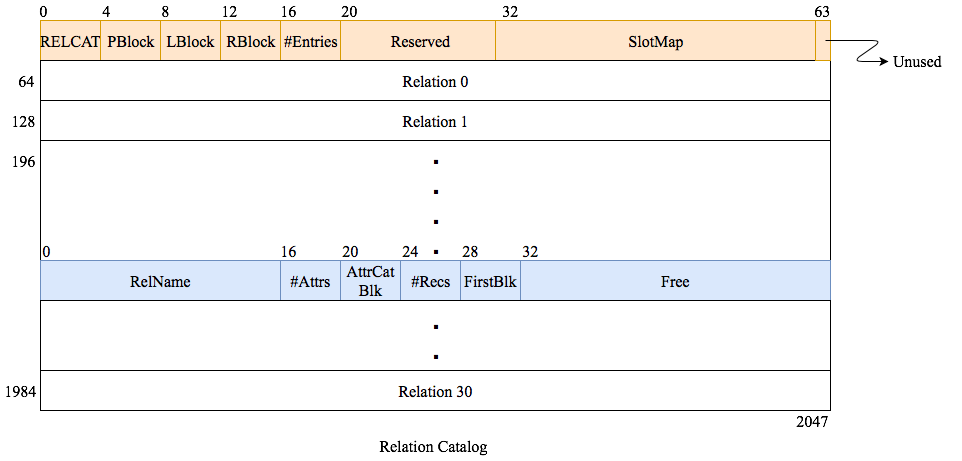
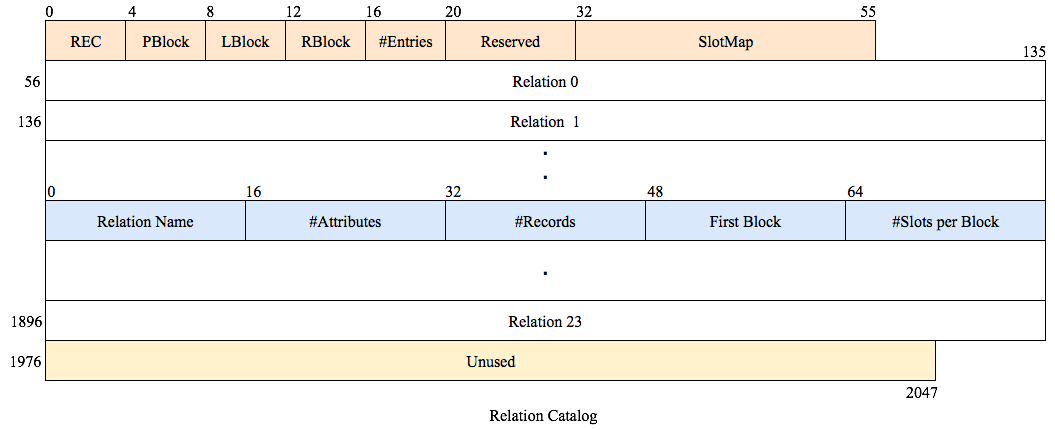
new diagrams

diff --git a/storage-model.html b/storage-model.html
@@ -43,67 +43,60 @@
             
             <div id="disk_model" class="detail">
                 <h2>Disk Model</h2>
-                <p>Nitcbase assumes that disk is a sequence of blocks and a block is a sequence of bytes. The disk consists of 8192 blocks and a block is of 2048 bytes. Hence there is a total of 16MB of storage. Disk blocks are indexed from 0 to 8191. </p>
+                <p> Nitcbase assumes that disk is a sequence of blocks and a block is a sequence of bytes. The disk consists of 8192 blocks and a block is of 2048 bytes. Hence there is a total of 16MB of storage. Disk blocks are indexed from 0 to 8191. </p>
                 <p> Block# 0-3 are reserved for storing Block allocation map where as Block# 4, 5 is for storing first Block of Relation Catalog and Attribute Catalog respectively. Block allocation map tells us whether a particular block is free or occupied and requires one byte per each block. Hence a total of 8192/2048=4 blocks are required for Block allocation map. The following figure summarizes the disk structure. </p>
                 <center><img src="img/disk_model.png"></center>
                 
-                <p> Based on type of information stored in a block, a block can be of 5 types- 1. Record block, 2. Index block, 3.Database Catalog block, 4.Relation Catalog block, 5.Attribute catalog block.</p>
+                <p> Based on type of information stored in a block, a block can be of 5 types- 1. Record block, 2. Index block . </p>
             </div>
             
             <div id="record_blk" class="detail">
                 <h2>Record block structure</h2>
-                <p> A database in Nitcbase is a collection of relations, and each relation is a collection of records.  The DBMS must store relations in the disk and the strategy is to store each relation in a set of blocks in the disk, organized as a linked list. Each block in such a linked list will be called a record block and is designed to store a fixed number of records.  The block will also contains some meta data like indices of the left and right blocks in the linked list.  Nitcbase fixes the size of a record as 256 bytes. </p>
-                <p>A record block stores the actual data records. The record block is divided into slots of size 256 Bytes each. Each slot stores a single record. Each block can have a maximum of 7 slots/records. In addition to data records, each block also stores meta data in preamble/header which occupies the first 256 Bytes of the record block.</p>
+                <p> Nitcbase is a collection of relations, and each relation is a collection of records.  The DBMS must store relations in the disk and the strategy is to store each relation in a set of blocks in the disk, organized as a linked list. Each block in such a linked list will be called a record block. The block will also contains some meta data like indices of the left and right blocks in the linked list. </p>
+                <p> Records in a relation are composed of fields known as attributes each of which contains one item of information. Nitcbase fixes the size of attribute as 16 bytes.
+                    But the records in a relation are of variable size, the size can vary from 16 bytes (record with single attribute) to the size that the record can fit in a block. </p>
+                <p> A record block stores the actual data records. In addition to data records, each block also stores meta data in preamble/header. </p>
+                
+               
                 <center><img src="img/record_block.png"></center>
-                <p>First four bytes(0-3) of header are used to identify the type of block(REC/IND/DBCAT/RELCAT/ATTRCAT) where REC represents a record block. Next four bytes(4-7) are used for storing parent block pointer which has no significance for a record block and can be set to -1. Byte# 8-11 and 12-15 are used for storing Left and right block numbers respectively. Next four bytes are used for storing number of records currently stored in the block whose value can range from 0 to 7. Bytes 20-31 are reserved for future use.</p>
+                <p> First four bytes(0-3) of header are used to identify the type of block(REC/IND/DBCAT/RELCAT/ATTRCAT) where REC represents a record block. Next four bytes(4-7) are used for storing parent block pointer which has no significance for a record block and can be set to -1. Byte# 8-11 and 12-15 are used for storing Left and right block numbers respectively. Next four bytes are used for storing number of records currently stored in the block whose value can range from 0 to 7. Bytes 20-31 are reserved for future use.</p>
+                 <p>  The record block is divided into slots of variable record size . Each slot stores a single record. Each block can have a maximum of 7 slots/records.
                 <p> Slotmap is used for knowing whether a slot is occupied or free. It is of 7 bytes, one for each slot. If a slot is free, its corresponding entry in slotmap will be 0 else it will be 1. Slotmap occupies 32-38 bytes of the header. Rest of the bytes in the header i.e., 39-255 are unallocated.</p>
-                <p>A Record can have a maximum of 16 attributes and an attribute can have a maximum of 16 Bytes. Each attribute is alloted a fixed size of 16 bytes and hence each record is alloted a fixed size of 256 bytes in disk.</p>
                 
             </div>
             
             <div id="index_blk" class="detail">
                 <h2>Index block structure</h2>
-                <p>Nitcbase uses the B-Tree data structure for indexing records in a relation.  The DBMS maintains at least one index per relation (and possibly more on requirement).  Corresponding to each index of a relation, the DBMS mantains a B-Tree to store the indices.  Each node of a B-Tree is stored into a block in the disk.  A disk block that stores a node of a B-Tree is called an index block.   Each index block in Nitcbase is designed to store a maximum of 55 indices.  An index is a 3-tuple (attribute value, block number, slot number).  Each index in a B-Tree node also has an associated pair of left and right child block pointers.  Hence, in addition to the indices, each index block is required to store a total of 56 child pointers. (Only 56 Child pointers are required because the right child of one index is the same as the left child of the next index).</p>
+                <p> Nitcbase uses the B-Tree data structure for indexing records in a relation.  The DBMS maintains at least one index per relation (and possibly more on requirement).  Corresponding to each index of a relation, the DBMS mantains a B-Tree to store the indices.  Each node of a B-Tree is stored into a block in the disk.  A disk block that stores a node of a B-Tree is called an index block.   Each index block in Nitcbase is designed to store a maximum of 55 indices.  An index is a 3-tuple (attribute value, block number, slot number).  Each index in a B-Tree node also has an associated pair of left and right child block pointers.  Hence, in addition to the indices, each index block is required to store a total of 56 child pointers. (Only 56 Child pointers are required because the right child of one index is the same as the left child of the next index).</p>
                 <center><img src="img/index_block.png"></center>
-                <p>An index block is divided into three parts.  The first 32 bytes contain a header, the next 1760 bytes store the indices, the following 224 bytes store the child pointers and the last 32 bytes are unused.  The header contains meta data similar to that of a record block. The first four bytes of the header stores the value IND.  PBlock is the Block# of parent block in the B-Tree. LBlock and RBlock have no significance for an index block. #Entries field stores the actual number of indices stored in the block. The remaining space in the header are left unused.</p>
+                <p> An index block is divided into three parts.  The first 32 bytes contain a header, the next 1760 bytes store the indices, the following 224 bytes store the child pointers and the last 32 bytes are unused.  The header contains meta data similar to that of a record block. The first four bytes of the header stores the value IND.  PBlock is the Block# of parent block in the B-Tree. LBlock and RBlock have no significance for an index block. #Entries field stores the actual number of indices stored in the block. The remaining space in the header are left unused.</p>
                 
-                <p>Each entry in the index block is a 3-tuple (attribute value, block number, slot number) corresponding to the particular record. Block# and slot# occupy 4 bytes each and any attribute occupies 16 bytes.  Thus each index requires 24 bytes.  Eight bytes of unused space is maintained for future use.  Thus a total of 32 bytes are allocated for a single index entry.  Since an index block can store upto 55 indices, the total space required for storing indices is 55*32=1760.  Each child pointer requires 4 bytes of storage and  the total space for storing 56 child pointers works out to 56*4 = 224.  The remaining space in the block (32 bytes) is left unused.</p>
+                <p> Each entry in the index block is a 3-tuple (attribute value, block number, slot number) corresponding to the particular record. Block# and slot# occupy 4 bytes each and any attribute occupies 16 bytes.  Thus each index requires 24 bytes.  Eight bytes of unused space is maintained for future use.  Thus a total of 32 bytes are allocated for a single index entry.  Since an index block can store upto 55 indices, the total space required for storing indices is 55*32=1760.  Each child pointer requires 4 bytes of storage and  the total space for storing 56 child pointers works out to 56*4 = 224.  The remaining space in the block (32 bytes) is left unused.</p>
                 <!--p> Note:  An index block has enough space to actually store 38 indices, but the number was limited to 37 because B-Tree algorithms are easier to implement when the maximum number of indices in a node is odd. </p-->  
                 
                 <p></p>
                
             </div>
             
-            <!-- priyatam -->
             
             <div class="pagetitle"><h1>Catalog structures</h1></div>
             
             <div class="detail" id="intro">
-                <p>A relational database has a number of catalogs for storing the meta data information about databases, relations, attributes, indexes etc. In addition to storing these catalogs in disk, a DBMS also caches some of them in memory for quick access. Such cache is called Catalog cache. Nitcbase uses three types of catalogs for storing the meta data.  </p>
+                <p> A relational database has two catalogs for storing the meta data information about relations, attributes, indexes etc. In addition to storing these catalogs in disk, a DBMS also caches some of them in memory for quick access. Such cache is called Catalog cache. Nitcbase uses two types of catalogs for storing the meta data. </p>
                 <ol>
-                    <li>Database Catalog</li>
                     <li>Relation Catalog</li>
                     <li>Attribute Catalog</li>
-                </ol> 
-                <p>In an RDBMS, a relation refers to collection of records where each record is an n-tuple of attribute values. An attribute is a column or field in a relation. A database is a collection of relations.</p>
+                </ol>
+                <p> In an RDBMS, a relation refers to collection of records where each record is an n-tuple of attribute values. An attribute is a column or field in a relation. A database is a collection of relations. </p>
+                <p> Nitcbase organizes these catalogs as relations. The block structures used for the catalogs are record block structures since the catalogs are implemented as relations in Nitcbase.
+                </p>
                 
             </div>
-            
-            <div class="detail" id="dbcat">
-                <h2>Database Catalog</h2>
-                <p>Nitcbase stores database catalog in Block# 4 of the disk. Every database has an entry corresponding to itself in database cataog. Since there are 62 entries in Database Catalog block, a maximum of 62 databases are permitted in total. Each entry in database catalog is of size 32 bytes. Database catalog has three attributes- DBName, RelCat_Index and #Relations. In each entry of database catalog, DBName(0-15 bytes) stores the name of the database, RelCat_Index(16-19 bytes) stores the  Block# of relation catalog for the database and #Realtions(20-23 bytes) specify the current number of relations present in the database, next 8 bytes(24-31) are left unused. In addition to Database Catalog information, this block also stores meta data in preamble/header which occupies the first 96 Bytes of the Database Catalog block. The structure of which can be inferred from the figure. </p>
-                
-                <p>The first four bytes of the header stores the value DBCAT which represents, the block is currently storing Database Catalog. PBlock, LBlock and RBlock have no significance for a Database Catalog block. #Entries field stores the actual number of Database Catalog entries stored in the block(which represents number of databases currently present in the system).Next 8 bytes(byte# 24-31) are reserved for future use, Slotmap occupies next 62 bytes(byte# 32-93)(can be seen in figure), where each byte corresponds to one entry in the database catalog. The remaining 2bytes of header(byte#- 94-95) are left unused.
 
- </p>
- 		
-                <center><img src="img/db_cat.png"></center>
-               
-            </div>
             
             <div class="detail" id="relcat">
                 <h2>Relation Catalog</h2>
-                <p>Relation Catalog stores meta information regarding relations in a database. Each database has a relation catalog. Each entry in Relation Catalog is of size 64 bytes and has the fallowing attributes: RelName, #Attributes, AttrCat_Index, #Records and RecBlk_Index.In each entry, RelName(byte# 0-15) stores name of the relation, #Attributes(byte# 16-19) stores number of attributes of the relation, AttrCat_Index(byte# 20-23) stores the block number of Attribute Catalog of the relation, #Records(byte# 24-27) stores the number of records currently stored in the relation and FirstBlkInd (byte# 24-27) stores the block number of the first record blocks of the relation. Since record blocks are arranged as linked list, FirstBlkInd essentially stores head of the linked list, next 32 bytes of each entry(byte# 32-63) are kept free. Nitcbase allocates one block for a relation catalog, which contains 30 entries, Hence a database can have a maximum of 30 relations.</p>
+                <p> Nitcbase stores first block of Relation Catalog in Block# 4 of the disk.Relation Catalog stores meta information regarding relations in a database. Each entry in Relation Catalog is of size 80 bytes and has the fallowing attributes: Relation Name, #Attributes, AttrCat_Index, #Records, First Block and #Slots per Block .In each entry, RelName(byte# 0-15) stores name of the relation, #Attributes(byte# 16-19) stores number of attributes of the relation, AttrCat_Index(byte# 20-23) stores the block number of Attribute Catalog of the relation, #Records(byte# 24-27) stores the number of records currently stored in the relation and FirstBlkInd (byte# 24-27) stores the block number of the first record blocks of the relation. Since record blocks are arranged as linked list, FirstBlkInd essentially stores head of the linked list, next 32 bytes of each entry(byte# 32-63) are kept free. Nitcbase allocates one block for a relation catalog, which contains 30 entries, Hence a database can have a maximum of 30 relations.</p>
                 
                 <p>Relation Catalog block also stores the meta data about the block in preamble/header which occupies the first 128 Bytes of the Relation Catalog block.  The structure of which can be inferred from the figure. </p>
                 

diff --git a/storage-model1.html b/storage-model1.html
@@ -112,7 +112,7 @@
 
                 </p>
  
-                <center><img src="img/rel_cat.png"></center>
+                <center><img src="img/rel_cat1.png"></center>
                 
                 <p></p>
             </div>
@@ -126,7 +126,7 @@
                 <p>The first four bytes of the header stores the value ATTRCAT which indicates that the block is currently storing an Attribute Catalog. PBlock, LBlock and RBlock have no significance for an Attribute Catalog block. #Entries field (byte# 16-19) stores the actual number of Attribute Catalog entries stored in the block. Byte# 20-31 are kept reserved for future use.  Slotmap occupies the next 48 bytes(byte# 32-79), with each byte corresponding to an entry in the Attributes catalog. The remaining  16 bytes of the header(byte#- 80-95) are left unused.
 
                 </p>
-                <center><img src="img/attr_cat.png"></center>
+                <center><img src="img/attr_cat1.png"></center>
             </div>
             
         </div>
